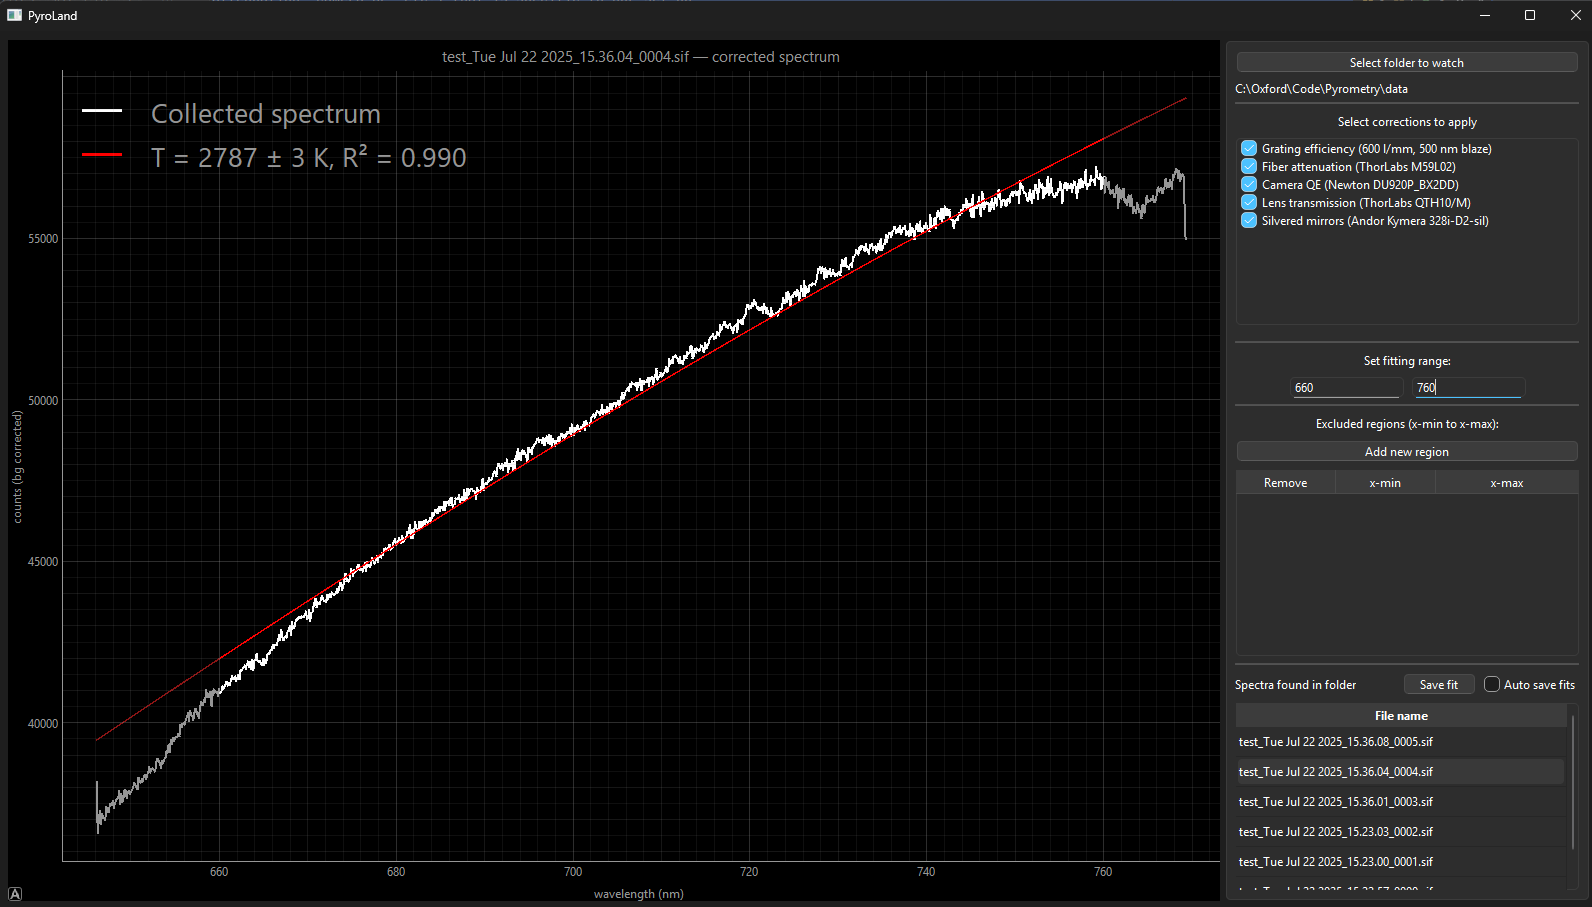
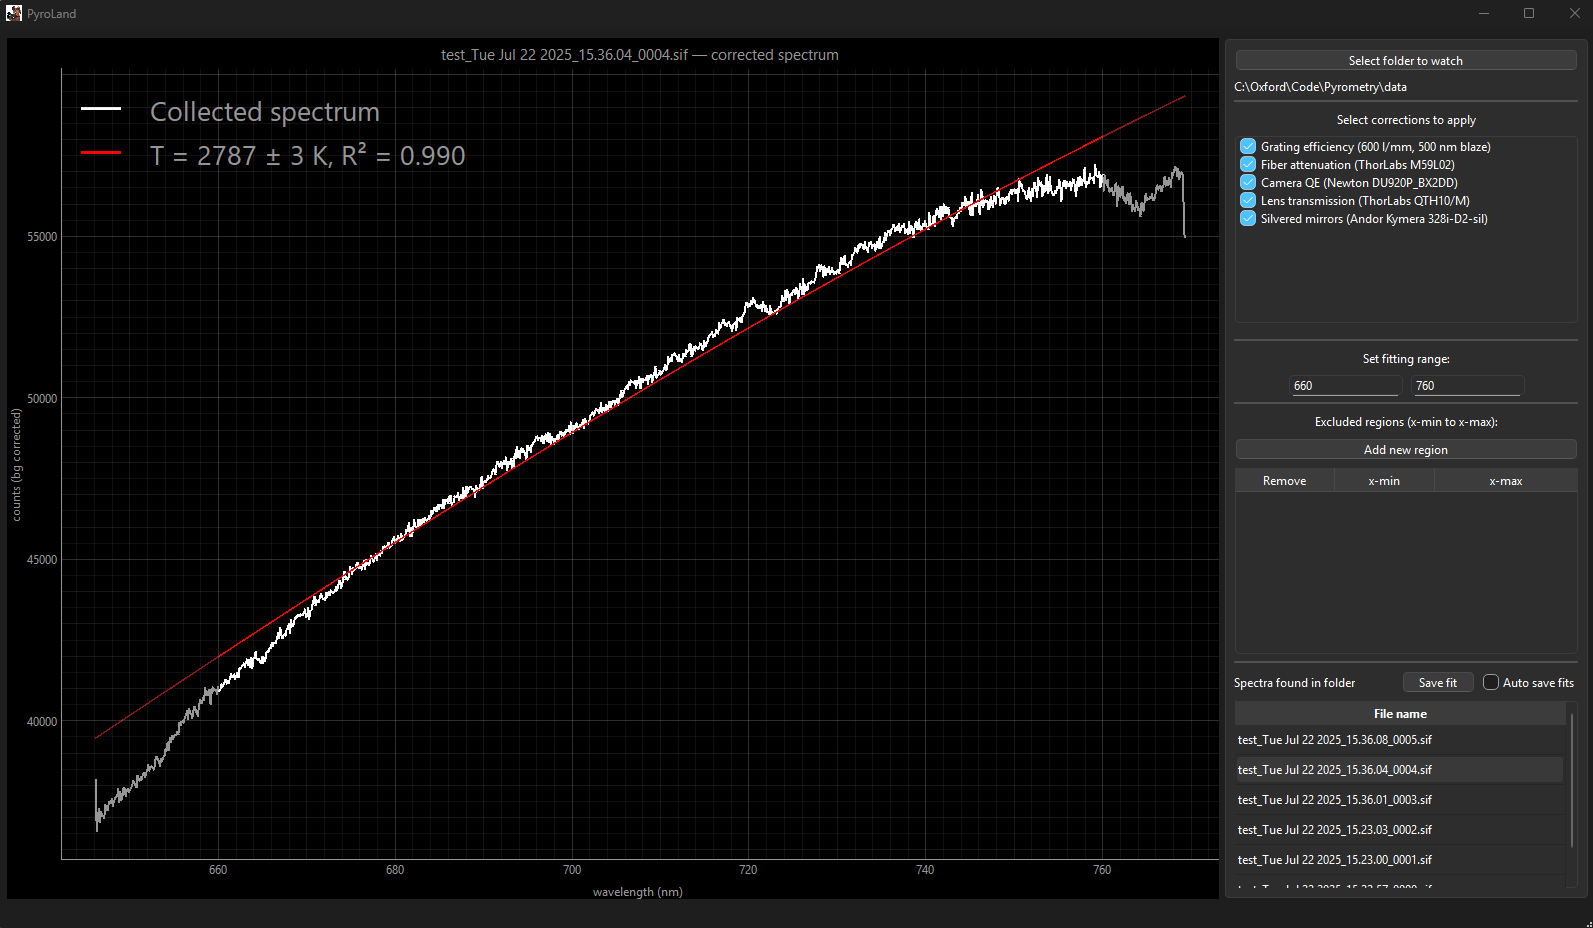
Added more to the README.md

diff --git a/src/pyroland/main.py b/src/pyroland/main.py
@@ -12,10 +12,12 @@ from __future__ import annotations
 import sys
 from typing import Optional
 
+from PySide6.QtGui import QIcon
 from PySide6.QtWidgets import QApplication, QMainWindow
 
 from pyroland.gui.ui.mainwindow import Ui_MainWindow
 from pyroland.controllers.main_controller import MainController
+from pyroland.util.resources import icon_path
 
 
 class MainWindow(QMainWindow):
@@ -32,6 +34,9 @@ class MainWindow(QMainWindow):
         # --- build UI generated by QtDesigner --------------------------------
         self.ui = Ui_MainWindow()
         self.ui.setupUi(self)
+
+        # --- set window/icon before showing ------------------------------
+        self.setWindowIcon(QIcon(str(icon_path())))  # <── icon here
 
         # --- resize main window ---------------------------------------------
         self.resize(*self._DEFAULT_SIZE)

diff --git a/src/pyroland/util/resources.py b/src/pyroland/util/resources.py
@@ -10,6 +10,7 @@ from importlib.resources import files
 from pathlib import Path
 
 _DATA_PACKAGE = "pyroland.corrections.data"
+_ICON_PACKAGE = "pyroland.icons"
 
 
 def data_path(filename: str) -> Path:
@@ -20,3 +21,6 @@ def data_path(filename: str) -> Path:
     inside a wheel, or extracted by PyInstaller.
     """
     return files(_DATA_PACKAGE).joinpath(filename)
+
+def icon_path(name: str = "app.ico") -> Path:
+    return files(_ICON_PACKAGE).joinpath(name)

diff --git a/README.md b/README.md
@@ -4,51 +4,128 @@
 [![License](https://img.shields.io/github/license/jdolinschi/pyroland)](https://github.com/jdolinschi/pyroland/blob/main/LICENSE)
 ![Python](https://img.shields.io/badge/python-3.11–3.13-blue)
 
-**Pyroland** is a cross-platform desktop application that loads Andor `.sif`
-spectra automatically by actively watching a folder for new files,
-applies wavelength-dependent corrections (grating efficiency, fiber
-attenuation, camera QE, etc.) that is specific to our set-up, 
-and plots calibrated spectra or pyrometric temperature fits automatically.
-You can add calibrations for your specific optical lay out by following the pattern in 
-the calibrations' folder.
-
-To get info on each specific calibration that comes preloaded, just double-click the calibration 
-in the table.
-
-Supports fitting specific regions of the data either through tail and head masking of the spectrum 
-or an unlimited number of specific x-regions within the spectrum. For example, if you have extra peaks 
-within the spectrum, you can filter them out with the excluded regions table by adding a new region and entering the x-min 
-and x-max of the spectrum to not use for fitting.
-
----
-
-## Features
-
-* **Five built-in corrections**  
-  Grating efficiency, fiber attenuation, quantum efficiency, QTH-lamp lens
-  transmission, and silvered-mirror reflectance.
-* **Live preview** — enable/disable each correction and see the effect instantly.
-* **Temperature fitting** with gray body fitting.
-* **Spectrum masking** either through a global min-max or specific regions within the spectrum.
-* **High-resolution export** to PNG or save to a `.asc` file.
-* Written in **PySide 6** (Qt) — looks native on Windows, macOS, and Linux.
-
 <div align="center">
-  <img src="docs/screenshot.png" width="700">
+  <img src="docs/Pyro_RED.png" width="260" alt="Pyroland logo">
 </div>
+
+**Pyroland** is a cross-platform desktop application that **watches an Andor Solis
+acquisition folder in real time**, corrects each incoming `.sif` spectrum with
+your instrument-specific calibrations, performs a pyrometric (grey-body) fit,
+and plots the result instantly.
 
 ---
 
 ## Quick start (Windows)
 
-| Option                      | Steps                                                                                                                                            | Requires Python?      |
-|-----------------------------|--------------------------------------------------------------------------------------------------------------------------------------------------|-----------------------|
-| **1. One-click EXE** (easy) | 1. Download **Pyroland-1.0.0.exe** from the [Releases] page.<br>2. Double-click.                                                                 | **No**                |
-| **2. Poetry / developers**  | `git clone https://github.com/jdolinschi/PyroLand`<br>`cd PyroLand`<br>`poetry install`<br>`poetry run pyroland`                                  | **Yes** (3.11 – 3.13) |
-
+| Option                      | Steps                                                                                                        | Requires Python? |
+|-----------------------------|--------------------------------------------------------------------------------------------------------------|------------------|
+| **1 · One-click EXE**       | 1. Download **Pyroland-1.0.0.exe** from the [Releases] page.<br>2. Double-click.                             | **No** |
+| **2 · Poetry / developers** | `git clone https://github.com/jdolinschi/PyroLand`<br>`cd PyroLand`<br>`poetry install`<br>`poetry run pyroland` | **Yes** (3.11 – 3.13) |
 
 > **Updating**  
-> • EXE users: download the new file from Releases.  
-> • poetry users: `git pull && poetry install --sync`.
+> • EXE users: download the newer EXE from *Releases*.  
+> • Poetry users: `git pull && poetry install --sync`.
 
 ---
+
+## Setting up **Andor Solis** for live processing :telescope:
+
+1. **Enable Auto-Save** in Solis  
+   *Settings → Auto-Save → Enable*  
+   and choose **“SIF (*.sif*)”** as the file format.
+2. Pick (or create) an output folder, e.g.  
+   `D:\Experiments\2025-07-Plasma`.
+3. In Pyroland click **“Select folder to watch”** and point it to the same folder.  
+   Pyroland now tracks the directory; every new `.sif` triggers an automatic load, correction, fit, and plot.
+
+---
+
+## Workflow in one GIF 🤖 *(screenshot placeholder)*
+
+<div align="center">
+  <img src="docs/screenshot.png" width="700" alt="Pyroland GUI">
+</div>
+
+---
+
+## Feature highlights
+
+| Category | What you get                                                                                                                                                                                                                                                              |
+|----------|---------------------------------------------------------------------------------------------------------------------------------------------------------------------------------------------------------------------------------------------------------------------------|
+| **Calibration pipeline** | Grating efficiency · Fiber attenuation · Camera QE · QTH-lamp lens transmission · Silvered-mirror reflectance – all switchable live.                                                                                                                                      |
+| **Interactive pyqtgraph** | • Pan = *left-drag* or *middle-drag*<br>• Zoom (both axes) = *wheel*<br>• Zoom X / Y only = *right-drag* horizontally / vertically<br>• Reset view = *double-click left button*<br>• Full context menu on *right-click* (export, log-scale, grid …)                       |
+| **Flexible fitting mask** | Global **x-min/x-max** fields *or* unlimited “excluded regions” rows. Each region is a pair of numbers; click **“✚ Add new region”** then enter x-min and x-max. Remove with the **“X”** button in that row.                                                              |
+| **Auto-save fits** | Tick **“Auto save fits”** → choose a folder. Every time a new `.sif` is processed Pyroland writes `<filename>.asc` (wavelength, counts, fit) into that folder. Changes like calibration selections/unselections and fitting range changes overwrites the old `.asc` file. |
+| **Manual save** | Click **Save fit** to write the currently displayed spectrum/fit anywhere you like.                                                                                                                                                                                       |
+| **High-res export** | Right-click plot → “Export” for PNG, SVG, CSV, …                                                                                                                                                                                                                          |
+| **Qt native UI** | Built with **PySide 6** · runs on Windows, macOS, Linux.                                                                                                                                                                                                                  |
+
+---
+
+## Detailed explanation 🗺
+
+### 1.  Selecting corrections
+* The right-hand list starts with all five corrections **checked**.  
+* Un-check any calibration you don’t want; the plot and fit refresh automatically.  
+  *Double-click* a correction to open a pop-up window describing its origin (citation, measurement method, uncertainty, …).
+
+### 2.  Global fitting range
+* Fields **“x-min”** and **“x-max”** apply a single contiguous range for fitting.  
+  Leave either blank to fit from the first/last data point.
+
+### 3.  Excluded regions table
+* Click **Add new region** to insert a row with two editable cells.  
+  Enter **x-min** and **x-max** to *exclude* that slice from the fit.  
+* Add as many regions as you like; Pyroland unions them into a final fit-mask.  
+* Remove a region with the **“X”** button in its row.  
+* Invalid ranges (x-min ≥ x-max) trigger an inline warning.
+
+### 4.  Saving results
+| Button / checkbox | What happens |
+|-------------------|--------------|
+| **Save fit** | Opens a file dialog and writes a single `.asc` file containing raw data, corrected counts, fit curve, temperature, and metadata. |
+| **Auto save fits** | Prompts once for a folder, then silently writes an `.asc` alongside every processed `.sif`. Un-tick to stop. |
+
+---
+
+### A note on **grating-efficiency curves** :warning:
+
+Our Kymera carries **three** gratings, yet Oxford Instruments ships an efficiency
+curve for only **one** of them (600 l/mm, 500 nm blaze) – thanks, Oxford! 🙃  
+If you need curves for *your* other gratings you’ll have to generate them
+manually:
+
+1. Visit <https://andor.oxinst.com/tools/resolution-calculator>.
+2. Pick the **exact** grating and camera you use.
+3. Slog through the web calculator entering one wavelength at a time (yes,
+   really) and copy the efficiencies into a CSV. I generated a text file of all integers, comma separated, between 300 and 1500 (wavelength in nm) and copied and pasted it into their calculator.
+4. Save that CSV in `src/pyroland/corrections/data/` following the same
+   two-column format as the supplied `grating_600lm_500nmBlaze_efficiency.csv`.
+5. Add a small corrector class (see existing examples) and you’re all set.
+
+Maybe one day Oxford will bundle the full set of curves… but until then, this
+is the workaround.
+
+---
+
+## Extending / contributing :hammer_and_wrench:
+
+1. Fork → feature branch → PR.  
+2. `poetry run pytest` must pass (CI runs Ruff and Black).  
+3. Add new calibration curves by dropping a CSV into `src/pyroland/corrections/data/` and creating a small corrector class that subclasses `BaseCorrector` (see existing examples).
+
+---
+
+## License
+
+Pyroland is released under the **MIT License** – see [`LICENSE`](LICENSE).  
+If you use Pyroland in published work, please cite it!
+
+```text
+@software{dolinschi_pyroland_2025,
+  author  = {Nathan Dolinschi},
+  title   = {Pyroland: Spectroscopy & Pyrometry GUI},
+  year    = {2025},
+  version = {1.0.0},
+  url     = {https://github.com/jdolinschi/pyroland}
+}
